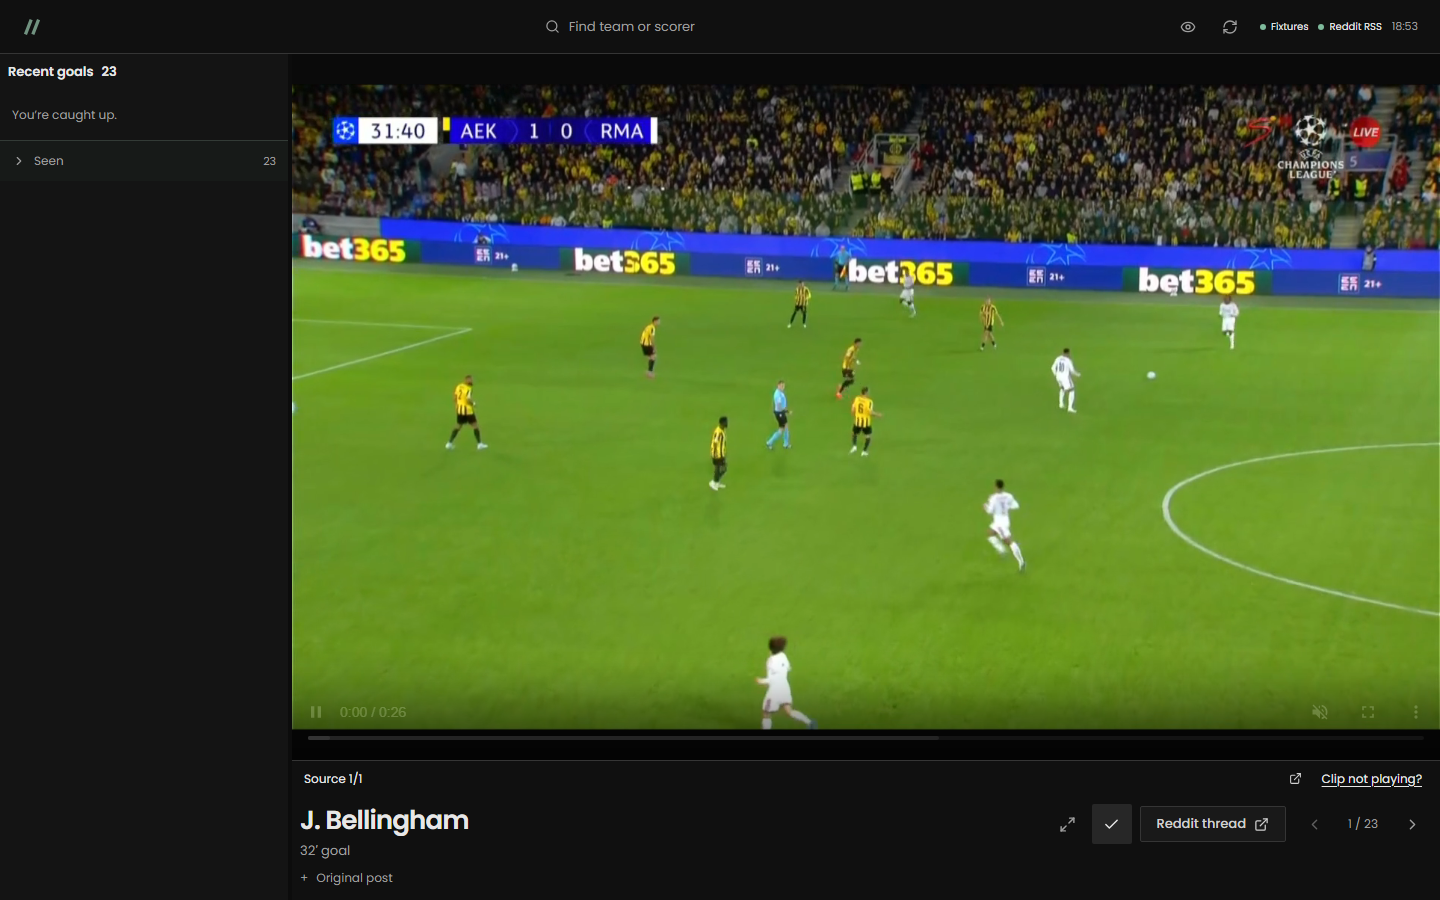
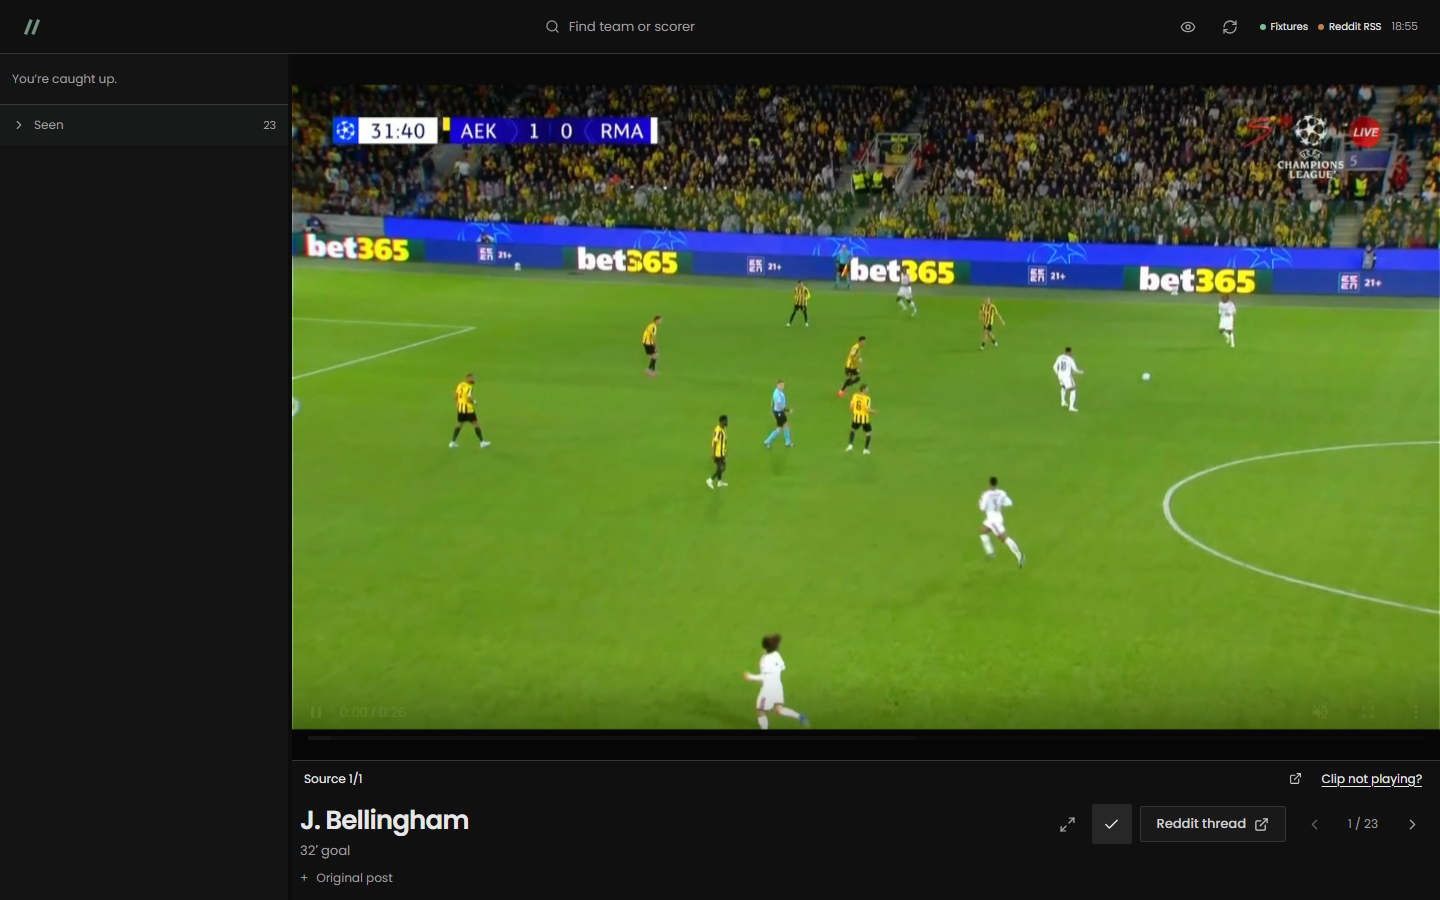
Remove redundant recent goals heading

diff --git a/web/src/App.tsx b/web/src/App.tsx
@@ -573,11 +573,6 @@ export default function App() {
             className={`goal-workspace${compact && mobilePlayer && selected ? " player-open" : ""}${cinema ? " cinema" : ""}`}
           >
             <section className="goal-queue" aria-label="Goal feed">
-              <div className="section-bar">
-                <h2>
-                  Recent goals <span>{goals.length}</span>
-                </h2>
-              </div>
               {newCount > 0 && (
                 <button
                   type="button"
